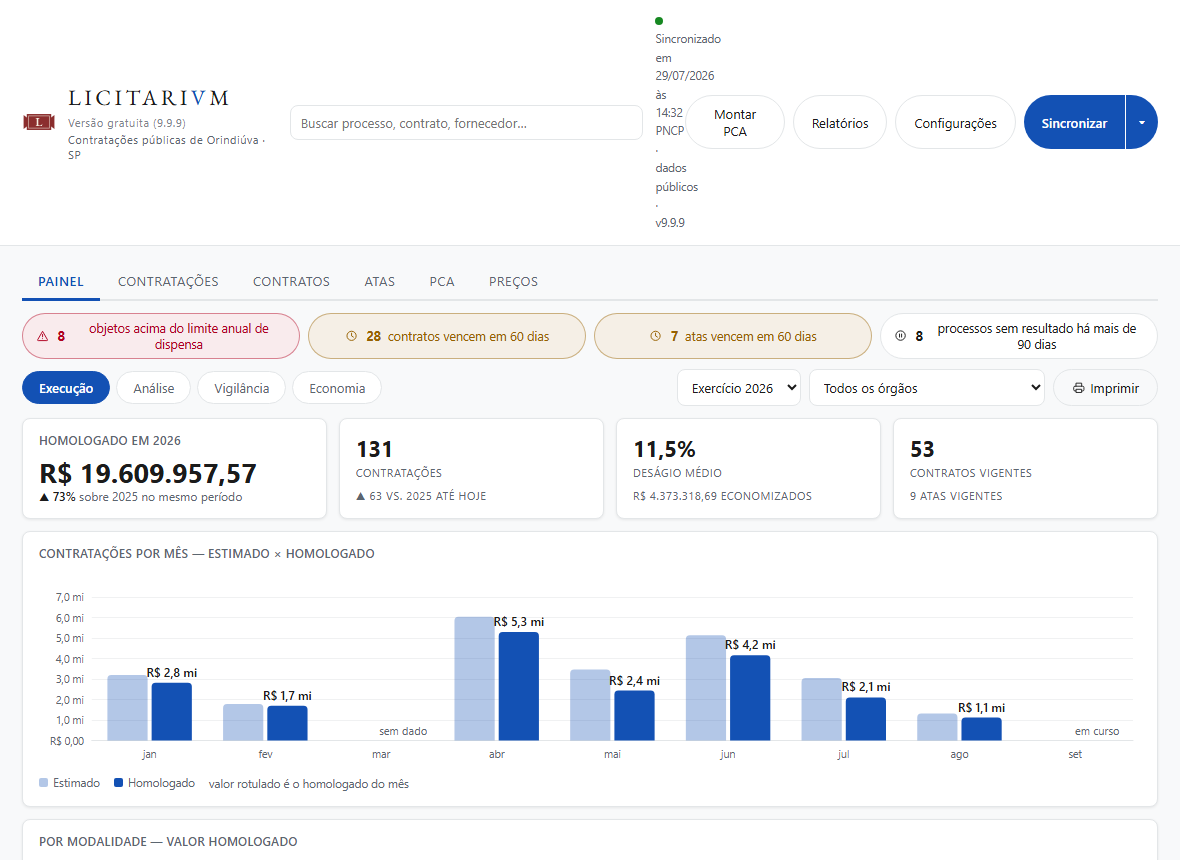
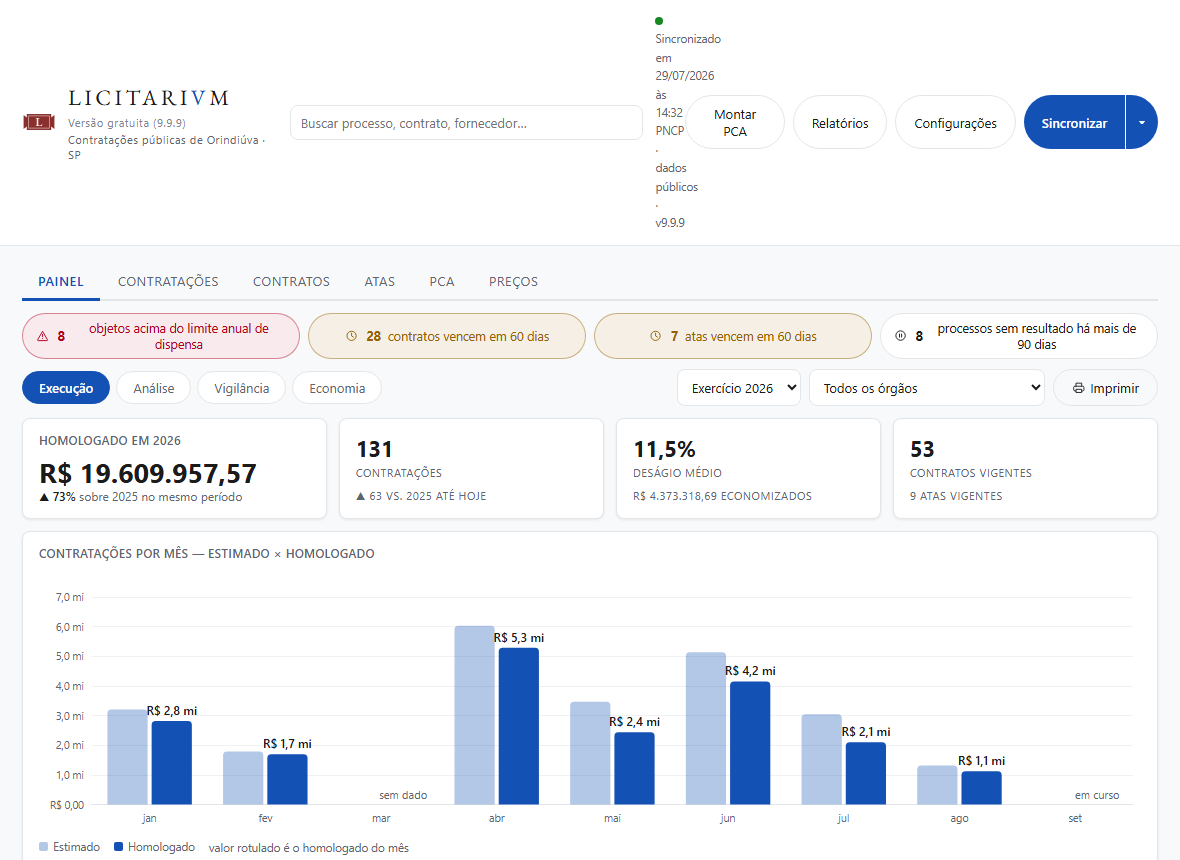
Situação do banco vira 1 coluna; altura dos gráficos recalibrada (v2.12.3)
Pedido do usuário: "Situação do banco" (aba Preços) ainda usava grid de
2 colunas (.grade-painel) enquanto o resto do app já era 1 coluna.
Convertido pra empilhado, mesmo padrão do Painel.

Junto: altura padrão dos gráficos de largura total (linha/curva/barra)
recalibrada de 196-230px pra 260px — média das alturas antigas
arredondada pra cima. Duas delas (mês×modalidade em Execução,
concentração de fornecedores em Análise) só viraram largura total na
correção da v2.12.2 e nunca tinham sido recalibradas pro novo contexto
(card 2x mais largo com a mesma altura fica achatado). Os 3 gráficos
novos da Situação do banco já entram com 260px.

304 pytest + 184 Playwright verdes.

diff --git a/MANUAL.html b/MANUAL.html
@@ -2,11 +2,11 @@
 <html lang="pt-BR">
 <head>
 <meta charset="utf-8">
-<title>Manual Operacional — Licitarium Free v2.12.2</title>
+<title>Manual Operacional — Licitarium Free v2.12.3</title>
 <style>
   @page {
     size: A4; margin: 2cm 1.8cm;
-    @top-center { content: "Licitarium Free v2.12.2 — Manual Operacional"; font-size: 9pt; color: #6f5b3e; }
+    @top-center { content: "Licitarium Free v2.12.3 — Manual Operacional"; font-size: 9pt; color: #6f5b3e; }
     @bottom-right { content: "Página " counter(page) " de " counter(pages);
                     font-size: 9pt; color: #6f5b3e; }
   }
@@ -155,7 +155,7 @@
     <path d="M21.22 61.67Q21.16 61.67 21.12 61.65Q21.09 61.64 21.09 61.61Q21.09 61.58 21.13 61.56Q21.17 61.54 21.23 61.53Q21.35 61.5 21.42 61.41Q21.5 61.32 21.52 61.17Q21.57 60.82 21.61 60.47Q21.64 60.11 21.67 59.79Q21.7 59.47 21.71 59.22Q21.71 59.19 21.71 59.14Q21.71 59.1 21.71 59.06Q21.7 59.01 21.69 58.97Q21.67 58.93 21.62 58.89Q21.55 58.83 21.47 58.81Q21.4 58.78 21.3 58.76Q21.26 58.75 21.23 58.73Q21.2 58.7 21.2 58.67Q21.2 58.63 21.24 58.62Q21.28 58.61 21.34 58.61Q21.4 58.61 21.49 58.61Q21.59 58.62 21.71 58.63Q21.82 58.63 21.93 58.64Q22.03 58.64 22.1 58.64Q22.14 58.64 22.16 58.66Q22.19 58.69 22.2 58.72Q22.22 58.81 22.25 58.89Q22.27 58.98 22.31 59.07L23.02 60.84Q23.03 60.87 23.06 60.88Q23.09 60.88 23.11 60.85L23.93 59.08Q23.96 58.98 23.98 58.88Q24 58.78 24.02 58.71Q24.03 58.65 24.07 58.65H24.25Q24.41 58.64 24.59 58.63Q24.76 58.61 24.85 58.61Q24.89 58.61 24.92 58.62Q24.96 58.63 24.96 58.66Q24.96 58.7 24.93 58.71Q24.9 58.73 24.84 58.76Q24.79 58.77 24.73 58.8Q24.67 58.82 24.62 58.84Q24.55 58.88 24.51 58.93Q24.46 58.98 24.47 59.07Q24.47 59.4 24.48 59.67Q24.5 59.94 24.51 60.19Q24.52 60.43 24.54 60.68Q24.56 60.93 24.57 61.2Q24.58 61.34 24.67 61.41Q24.75 61.49 24.92 61.52Q24.98 61.54 25.02 61.56Q25.05 61.57 25.05 61.61Q25.05 61.64 25.02 61.65Q24.99 61.67 24.93 61.67Q24.82 61.67 24.72 61.66Q24.62 61.65 24.53 61.65Q24.43 61.64 24.33 61.64Q24.24 61.64 24.16 61.65Q24.08 61.65 23.99 61.66Q23.9 61.67 23.78 61.67Q23.73 61.67 23.7 61.65Q23.66 61.64 23.66 61.61Q23.66 61.58 23.7 61.55Q23.73 61.53 23.8 61.52Q23.95 61.5 24 61.43Q24.06 61.36 24.06 61.2Q24.05 60.88 24.04 60.61Q24.04 60.34 24.02 60.07Q24.01 59.8 24 59.51Q23.99 59.46 23.97 59.47Q23.95 59.47 23.93 59.51L22.93 61.66Q22.92 61.7 22.88 61.7Q22.84 61.69 22.83 61.66Q22.63 61.12 22.41 60.59Q22.19 60.07 21.95 59.5Q21.94 59.47 21.91 59.47Q21.89 59.47 21.88 59.51Q21.85 59.8 21.83 60.07Q21.8 60.34 21.79 60.61Q21.78 60.88 21.78 61.17Q21.78 61.3 21.86 61.39Q21.94 61.49 22.09 61.52Q22.16 61.54 22.2 61.55Q22.24 61.57 22.24 61.61Q22.24 61.64 22.2 61.65Q22.16 61.67 22.11 61.67Q21.99 61.67 21.92 61.66Q21.86 61.65 21.81 61.65Q21.75 61.65 21.66 61.65Q21.57 61.65 21.51 61.65Q21.44 61.66 21.37 61.66Q21.3 61.67 21.22 61.67ZM25.84 61.67Q25.78 61.67 25.75 61.65Q25.72 61.64 25.72 61.61Q25.72 61.58 25.75 61.56Q25.79 61.54 25.86 61.53Q25.97 61.5 26.05 61.41Q26.13 61.32 26.15 61.17Q26.19 60.82 26.23 60.47Q26.27 60.11 26.3 59.79Q26.32 59.47 26.33 59.22Q26.34 59.19 26.34 59.14Q26.34 59.1 26.33 59.06Q26.33 59.01 26.31 58.97Q26.3 58.93 26.25 58.89Q26.17 58.83 26.1 58.81Q26.03 58.78 25.93 58.76Q25.88 58.75 25.85 58.73Q25.82 58.7 25.82 58.67Q25.82 58.63 25.86 58.62Q25.91 58.61 25.97 58.61Q26.02 58.61 26.12 58.61Q26.22 58.62 26.33 58.63Q26.45 58.63 26.56 58.64Q26.66 58.64 26.73 58.64Q26.76 58.64 26.79 58.66Q26.82 58.69 26.82 58.72Q26.85 58.81 26.88 58.89Q26.9 58.98 26.93 59.07L27.65 60.84Q27.66 60.87 27.69 60.88Q27.72 60.88 27.73 60.85L28.56 59.08Q28.58 58.98 28.61 58.88Q28.63 58.78 28.64 58.71Q28.66 58.65 28.7 58.65H28.88Q29.04 58.64 29.21 58.63Q29.39 58.61 29.48 58.61Q29.51 58.61 29.55 58.62Q29.59 58.63 29.59 58.66Q29.59 58.7 29.56 58.71Q29.53 58.73 29.47 58.76Q29.42 58.77 29.36 58.8Q29.3 58.82 29.25 58.84Q29.17 58.88 29.13 58.93Q29.09 58.98 29.09 59.07Q29.1 59.4 29.11 59.67Q29.12 59.94 29.14 60.19Q29.15 60.43 29.17 60.68Q29.18 60.93 29.2 61.2Q29.21 61.34 29.3 61.41Q29.38 61.49 29.54 61.52Q29.61 61.54 29.65 61.56Q29.68 61.57 29.68 61.61Q29.68 61.64 29.65 61.65Q29.61 61.67 29.56 61.67Q29.44 61.67 29.34 61.66Q29.25 61.65 29.15 61.65Q29.06 61.64 28.96 61.64Q28.87 61.64 28.79 61.65Q28.71 61.65 28.62 61.66Q28.53 61.67 28.41 61.67Q28.36 61.67 28.32 61.65Q28.29 61.64 28.29 61.61Q28.29 61.58 28.32 61.55Q28.36 61.53 28.43 61.52Q28.57 61.5 28.63 61.43Q28.68 61.36 28.68 61.2Q28.68 60.88 28.67 60.61Q28.66 60.34 28.65 60.07Q28.64 59.8 28.63 59.51Q28.62 59.46 28.6 59.47Q28.58 59.47 28.56 59.51L27.56 61.66Q27.55 61.7 27.51 61.7Q27.47 61.69 27.46 61.66Q27.26 61.12 27.04 60.59Q26.82 60.07 26.58 59.5Q26.57 59.47 26.54 59.47Q26.52 59.47 26.51 59.51Q26.48 59.8 26.45 60.07Q26.43 60.34 26.42 60.61Q26.41 60.88 26.41 61.17Q26.41 61.3 26.49 61.39Q26.57 61.49 26.72 61.52Q26.79 61.54 26.83 61.55Q26.87 61.57 26.87 61.61Q26.87 61.64 26.83 61.65Q26.79 61.67 26.74 61.67Q26.61 61.67 26.55 61.66Q26.48 61.65 26.43 61.65Q26.38 61.65 26.29 61.65Q26.2 61.65 26.13 61.65Q26.07 61.66 26 61.66Q25.93 61.67 25.84 61.67ZM30.37 61.67Q30.31 61.67 30.27 61.66Q30.23 61.65 30.23 61.61Q30.23 61.58 30.27 61.56Q30.31 61.54 30.37 61.51Q30.46 61.49 30.57 61.44Q30.67 61.38 30.79 61.29Q30.9 61.2 31 61.07L31.58 60.35Q31.63 60.28 31.64 60.21Q31.66 60.14 31.59 60.05L30.96 59.16Q30.86 59.03 30.79 58.95Q30.71 58.87 30.63 58.83Q30.56 58.8 30.48 58.77Q30.41 58.75 30.37 58.73Q30.34 58.71 30.34 58.67Q30.34 58.64 30.37 58.63Q30.41 58.62 30.46 58.62Q30.61 58.62 30.81 58.63Q31.01 58.64 31.2 58.64Q31.34 58.64 31.47 58.63Q31.61 58.62 31.7 58.62Q31.75 58.62 31.79 58.64Q31.83 58.65 31.83 58.68Q31.83 58.72 31.79 58.74Q31.75 58.76 31.69 58.78Q31.56 58.81 31.5 58.84Q31.44 58.87 31.44 58.93Q31.44 59 31.56 59.18L31.99 59.77Q32.04 59.84 32.07 59.84Q32.1 59.84 32.14 59.78L32.59 59.18Q32.65 59.1 32.68 59.04Q32.71 58.98 32.71 58.93Q32.71 58.88 32.66 58.84Q32.61 58.8 32.5 58.78Q32.46 58.77 32.4 58.74Q32.35 58.72 32.35 58.68Q32.35 58.65 32.39 58.64Q32.43 58.63 32.49 58.63Q32.56 58.63 32.62 58.63Q32.68 58.63 32.74 58.63Q32.81 58.64 32.88 58.64Q33.02 58.64 33.15 58.62Q33.28 58.61 33.39 58.61Q33.45 58.61 33.49 58.62Q33.53 58.63 33.53 58.67Q33.53 58.7 33.49 58.72Q33.45 58.74 33.38 58.76Q33.26 58.79 33.12 58.93Q32.97 59.06 32.85 59.21L32.28 59.9Q32.22 59.97 32.21 60.01Q32.2 60.04 32.23 60.1L32.97 61.16Q33.06 61.29 33.18 61.39Q33.29 61.48 33.41 61.51Q33.48 61.53 33.52 61.55Q33.57 61.58 33.57 61.61Q33.57 61.64 33.53 61.66Q33.49 61.67 33.44 61.67Q33.33 61.67 33.21 61.66Q33.08 61.66 32.94 61.65Q32.81 61.64 32.69 61.64Q32.55 61.64 32.42 61.65Q32.29 61.65 32.19 61.65Q32.13 61.65 32.09 61.64Q32.05 61.62 32.05 61.59Q32.05 61.56 32.1 61.53Q32.15 61.51 32.2 61.5Q32.28 61.48 32.35 61.43Q32.42 61.38 32.42 61.29Q32.42 61.26 32.41 61.23Q32.4 61.19 32.37 61.16L31.89 60.45Q31.84 60.39 31.81 60.38Q31.78 60.38 31.75 60.43L31.19 61.17Q31.16 61.22 31.14 61.26Q31.13 61.3 31.13 61.33Q31.14 61.39 31.19 61.44Q31.25 61.49 31.34 61.51Q31.41 61.52 31.45 61.54Q31.49 61.57 31.49 61.6Q31.49 61.63 31.45 61.64Q31.42 61.66 31.36 61.66Q31.27 61.66 31.15 61.65Q31.03 61.65 30.92 61.65Q30.77 61.65 30.63 61.66Q30.49 61.67 30.37 61.67ZM34.14 61.67Q34.08 61.67 34.04 61.66Q34 61.65 34 61.61Q34 61.58 34.04 61.56Q34.08 61.54 34.14 61.51Q34.23 61.49 34.34 61.44Q34.44 61.38 34.56 61.29Q34.67 61.2 34.77 61.07L35.35 60.35Q35.4 60.28 35.41 60.21Q35.43 60.14 35.36 60.05L34.73 59.16Q34.63 59.03 34.56 58.95Q34.48 58.87 34.4 58.83Q34.33 58.8 34.25 58.77Q34.18 58.75 34.14 58.73Q34.11 58.71 34.11 58.67Q34.11 58.64 34.14 58.63Q34.18 58.62 34.23 58.62Q34.38 58.62 34.58 58.63Q34.78 58.64 34.97 58.64Q35.11 58.64 35.24 58.63Q35.38 58.62 35.47 58.62Q35.52 58.62 35.56 58.64Q35.6 58.65 35.6 58.68Q35.6 58.72 35.56 58.74Q35.52 58.76 35.46 58.78Q35.33 58.81 35.27 58.84Q35.21 58.87 35.21 58.93Q35.21 59 35.33 59.18L35.76 59.77Q35.81 59.84 35.84 59.84Q35.87 59.84 35.91 59.78L36.36 59.18Q36.42 59.1 36.45 59.04Q36.48 58.98 36.48 58.93Q36.48 58.88 36.43 58.84Q36.38 58.8 36.27 58.78Q36.23 58.77 36.18 58.74Q36.12 58.72 36.12 58.68Q36.12 58.65 36.16 58.64Q36.2 58.63 36.26 58.63Q36.33 58.63 36.39 58.63Q36.45 58.63 36.51 58.63Q36.58 58.64 36.65 58.64Q36.79 58.64 36.92 58.62Q37.05 58.61 37.16 58.61Q37.22 58.61 37.26 58.62Q37.3 58.63 37.3 58.67Q37.3 58.7 37.26 58.72Q37.22 58.74 37.15 58.76Q37.03 58.79 36.89 58.93Q36.74 59.06 36.62 59.21L36.05 59.9Q35.99 59.97 35.98 60.01Q35.97 60.04 36 60.1L36.74 61.16Q36.83 61.29 36.95 61.39Q37.06 61.48 37.18 61.51Q37.25 61.53 37.29 61.55Q37.34 61.58 37.34 61.61Q37.34 61.64 37.3 61.66Q37.26 61.67 37.21 61.67Q37.1 61.67 36.98 61.66Q36.85 61.66 36.71 61.65Q36.58 61.64 36.46 61.64Q36.32 61.64 36.19 61.65Q36.06 61.65 35.96 61.65Q35.9 61.65 35.86 61.64Q35.82 61.62 35.82 61.59Q35.82 61.56 35.87 61.53Q35.92 61.51 35.97 61.5Q36.05 61.48 36.12 61.43Q36.2 61.38 36.2 61.29Q36.2 61.26 36.18 61.23Q36.17 61.19 36.14 61.16L35.66 60.45Q35.61 60.39 35.58 60.38Q35.55 60.38 35.52 60.43L34.96 61.17Q34.93 61.22 34.91 61.26Q34.9 61.3 34.9 61.33Q34.91 61.39 34.96 61.44Q35.02 61.49 35.11 61.51Q35.18 61.52 35.22 61.54Q35.26 61.57 35.26 61.6Q35.26 61.63 35.22 61.64Q35.19 61.66 35.13 61.66Q35.04 61.66 34.92 61.65Q34.8 61.65 34.69 61.65Q34.54 61.65 34.4 61.66Q34.26 61.67 34.14 61.67ZM39.32 61.71Q39.27 61.71 39.25 61.66Q39.23 61.61 39.19 61.51Q39.16 61.41 39.13 61.34L38.26 59.11Q38.21 58.99 38.14 58.9Q38.06 58.81 37.93 58.78Q37.87 58.76 37.83 58.74Q37.79 58.71 37.79 58.68Q37.79 58.65 37.83 58.63Q37.86 58.62 37.92 58.62Q38 58.62 38.1 58.63Q38.2 58.63 38.31 58.63Q38.42 58.64 38.52 58.64Q38.61 58.64 38.72 58.63Q38.82 58.63 38.92 58.63Q39.02 58.62 39.08 58.62Q39.13 58.62 39.17 58.64Q39.21 58.65 39.21 58.68Q39.21 58.72 39.17 58.74Q39.13 58.77 39.07 58.78Q38.93 58.79 38.85 58.84Q38.78 58.88 38.78 58.96Q38.78 59.02 38.79 59.07Q38.81 59.12 38.82 59.15L39.46 60.88Q39.47 60.9 39.48 60.91Q39.5 60.91 39.51 60.87L40.11 59.3Q40.2 59.05 40.13 58.93Q40.06 58.8 39.89 58.78Q39.83 58.77 39.79 58.74Q39.74 58.72 39.74 58.68Q39.74 58.65 39.78 58.64Q39.82 58.63 39.88 58.63Q39.95 58.63 40.02 58.63Q40.09 58.63 40.17 58.63Q40.24 58.64 40.33 58.64Q40.47 58.64 40.61 58.63Q40.75 58.62 40.85 58.62Q40.91 58.62 40.95 58.63Q40.99 58.64 40.99 58.68Q40.99 58.71 40.95 58.73Q40.91 58.75 40.84 58.77Q40.68 58.81 40.58 58.92Q40.47 59.04 40.41 59.19L39.59 61.15Q39.56 61.23 39.52 61.32Q39.49 61.41 39.45 61.5Q39.42 61.59 39.38 61.66Q39.38 61.69 39.36 61.7Q39.34 61.71 39.32 61.71ZM41.59 61.67Q41.54 61.67 41.51 61.65Q41.47 61.64 41.47 61.61Q41.47 61.55 41.61 61.52Q41.78 61.49 41.87 61.42Q41.95 61.35 41.95 61.19V59.1Q41.95 58.94 41.89 58.87Q41.82 58.81 41.64 58.77Q41.51 58.75 41.51 58.68Q41.51 58.65 41.54 58.63Q41.58 58.62 41.63 58.62Q41.75 58.62 41.84 58.63Q41.93 58.63 42.02 58.63Q42.11 58.64 42.21 58.64Q42.31 58.64 42.4 58.63Q42.48 58.63 42.57 58.63Q42.66 58.62 42.78 58.62Q42.83 58.62 42.86 58.63Q42.9 58.65 42.9 58.68Q42.9 58.71 42.86 58.74Q42.83 58.76 42.76 58.77Q42.59 58.81 42.51 58.88Q42.44 58.94 42.44 59.1V61.19Q42.44 61.35 42.53 61.42Q42.61 61.48 42.79 61.52Q42.86 61.54 42.89 61.56Q42.92 61.57 42.92 61.61Q42.92 61.64 42.89 61.65Q42.86 61.67 42.81 61.67Q42.69 61.67 42.59 61.66Q42.5 61.65 42.41 61.65Q42.32 61.64 42.21 61.64Q42.1 61.64 42.01 61.65Q41.91 61.65 41.81 61.66Q41.71 61.67 41.59 61.67Z" fill="var(--text)" opacity=".85"/>
   </svg>
   <h1 class="mark">LICITARI<b>V</b>M</h1>
-  <div class="subtitulo">MANUAL DO USUÁRIO · VERSÃO 2.12.2</div>
+  <div class="subtitulo">MANUAL DO USUÁRIO · VERSÃO 2.12.3</div>
 </header>
 
 <h2>1. O que é o Licitarium</h2>

diff --git a/ui/painel.js b/ui/painel.js
@@ -214,6 +214,14 @@ function _iniciarEchart(el) {
 }
 
 // ── colunas pareadas: estimado (claro) × homologado (cheio) ────────────────
+// 260px é a altura padrão de todo gráfico de largura total do app (linha,
+// área, curva) — média das 5 alturas que esses gráficos já usavam (196 a
+// 230px) arredondada pra cima. Motivo do arredondamento pra cima, não só a
+// média: 2 delas (aqui e grafConcentracao) ficaram largura total só depois
+// da correção de layout de 2026-09-12 — antes dividiam a linha com outro
+// gráfico, então a altura tinha sido calibrada pra card ~metade da largura.
+// Card 2x mais largo com a MESMA altura fica achatado; aumentar era a
+// correção certa, não só "manter o que já tinha".
 function grafMeses(el, meses, ano, larg = 660) {
   // Mês sem contratação é informação: filtrá-lo comprimia o eixo e escondia
   // o buraco — no acervo do piloto, março sumia entre fevereiro e abril.
@@ -226,7 +234,7 @@ function grafMeses(el, meses, ano, larg = 660) {
   const hoje = new Date();
   const mesCorrente = ano === hoje.getFullYear() ? hoje.getMonth() + 1 : 0;
   const dados = meses.slice(0, Math.max(ultimo + 1, mesCorrente));
-  el.innerHTML = `<div class="graf-echart" style="height:196px"></div>
+  el.innerHTML = `<div class="graf-echart" style="height:260px"></div>
     <div class="leg"><span><i style="background:var(--s1);opacity:.32"></i>Estimado</span>
     <span><i style="background:var(--s1)"></i>Homologado</span>
     <span class="nota" style="margin:0">valor rotulado é o homologado do mês</span></div>`;
@@ -356,7 +364,7 @@ function grafSeries(el, series, anoAtual) {
   }
   const ultimoMesAtual = Math.min(new Date().getMonth(), 11);
   el.innerHTML = `<div class="graf-par" style="position:relative">
-    <div class="graf-echart" style="height:220px"></div>
+    <div class="graf-echart" style="height:260px"></div>
     <svg data-overlay aria-hidden="true"
       style="position:absolute;inset:0"></svg></div>`;
   const alvoChart = el.querySelector(".graf-echart");
@@ -551,8 +559,11 @@ function grafConcentracao(el, curva, total) {
   // destacar o último ponto seria dizer "todos os fornecedores = 100%", que
   // não informa nada — e o rótulo cairia em cima do fim da curva
   const dez = Math.min(9, Math.max(0, curva.length - 2));
+  // 260px: mesma altura padrão de largura total, ver comentário em
+  // grafMeses — este também só virou largura total na correção de layout
+  // de 2026-09-12 (antes dividia linha com "Deságio por modalidade")
   el.innerHTML = `<div class="graf-par" style="position:relative">
-    <div class="graf-echart" style="height:190px"></div>
+    <div class="graf-echart" style="height:260px"></div>
     <svg data-overlay aria-hidden="true"
       style="position:absolute;inset:0"></svg></div>`;
   const alvoChart = el.querySelector(".graf-echart");
@@ -656,7 +667,7 @@ function grafCurvaABC(el, itens, larg = 660) {
   const nC = validos.length - nA - nB;
   const fimA = Math.max(0, nA - 1), fimB = Math.max(fimA, nA + nB - 1);
 
-  el.innerHTML = `<div class="graf-echart" style="height:230px"></div>
+  el.innerHTML = `<div class="graf-echart" style="height:260px"></div>
     <div class="leg" style="display:grid;grid-template-columns:${
       (((fimA + 1) / validos.length) * 100).toFixed(1)}% ${
       ((nB / validos.length) * 100).toFixed(1)}% 1fr;gap:0;margin-top:2px">
@@ -716,7 +727,7 @@ function grafValorPorAno(el, porAno, anoAtual) {
     el.innerHTML = `<div class="vazio">Sem contratos em anos anteriores.</div>`;
     return;
   }
-  el.innerHTML = `<div class="graf-echart" style="height:230px"></div>`;
+  el.innerHTML = `<div class="graf-echart" style="height:260px"></div>`;
   const alvo = el.querySelector(".graf-echart");
   const chart = _iniciarEchart(alvo);
   chart.setOption({

diff --git a/ui/index.html b/ui/index.html
@@ -135,11 +135,11 @@
         <div class="grade-painel">
           <div class="card" style="padding:16px">
             <h3 class="tit-painel">Itens por ano</h3>
-            <div id="painel-grafico-ano" style="height:220px"></div>
+            <div id="painel-grafico-ano" style="height:260px"></div>
           </div>
           <div class="card" style="padding:16px">
             <h3 class="tit-painel">Material × serviço</h3>
-            <div id="painel-grafico-tipo" style="height:220px"></div>
+            <div id="painel-grafico-tipo" style="height:260px"></div>
           </div>
         </div>
         <div class="topo-painel" style="margin-bottom:8px">
@@ -149,7 +149,7 @@
         <div id="painel-concentracao-aviso" class="aviso-concentracao"></div>
         <div class="grade-painel">
           <div class="card" style="padding:16px">
-            <div id="painel-concentracao-svg" style="height:220px"></div>
+            <div id="painel-concentracao-svg" style="height:260px"></div>
             <div class="legenda-eixo-concentracao">fornecedores, do maior para o menor</div>
           </div>
           <div class="card" style="padding:16px" id="painel-concentracao-lista-card">

diff --git a/tests-e2e/precos-situacao.spec.js b/tests-e2e/precos-situacao.spec.js
@@ -34,6 +34,21 @@ test("concentração de fornecedores desenha curva e lista pro item selecionado"
   await expect(page.locator(".barra-concentracao")).toHaveCount(2);
 });
 
+test("cartões dos gráficos ficam empilhados em 1 coluna, não lado a lado",
+    async ({ page }) => {
+  // achado do usuário (2026-09-12): esta tela ainda usava o grid de 2
+  // colunas antigo (.grade-painel) enquanto o resto do app (Painel) já
+  // tinha virado 1 coluna — mesmo espírito da correção de Execução/
+  // Análise, mesmo dia.
+  await page.locator('button[data-vista-precos="situacao"]').click();
+  const anoBox = await page.locator("#painel-grafico-ano").boundingBox();
+  const tipoBox = await page.locator("#painel-grafico-tipo").boundingBox();
+  // em 1 coluna, o 2º cartão fica ABAIXO do 1º (mesmo x, y maior), não
+  // ao lado (mesmo y, x maior)
+  expect(tipoBox.y).toBeGreaterThan(anoBox.y + anoBox.height - 5);
+  expect(anoBox.width).toBeGreaterThan(600);   // largura cheia, não metade
+});
+
 test("voltar pra Pesquisar mantém a busca de preços intacta",
     async ({ page }) => {
   await page.locator('button[data-vista-precos="situacao"]').click();

diff --git a/ui/estilo.css b/ui/estilo.css
@@ -693,7 +693,9 @@ details.raw pre { background:var(--surface2); border-radius:var(--radius);
 #pca-kpis .kpi { cursor:default; }
 #pca-kpis .kpi:hover { border-color:var(--border); }
 .topo-painel { display:flex; justify-content:space-between; align-items:center; }
-.grade-painel { display:grid; grid-template-columns:1fr 1fr; gap:16px; }
+/* 1 coluna, largura total — mesmo padrão do Painel (handoff Claude
+   Design): cada gráfico/cartão empilhado, nunca 2 lado a lado */
+.grade-painel { display:flex; flex-direction:column; gap:16px; }
 .tit-painel { font-size:12.5px; color:var(--muted); font-weight:600;
               letter-spacing:.04em; text-transform:uppercase;
               margin-bottom:10px; }

diff --git a/licitarium.py b/licitarium.py
@@ -28,7 +28,7 @@ import pca_builder
 import pncp
 import relatorios
 
-VERSAO = "2.12.2"
+VERSAO = "2.12.3"
 # dentro do exe onefile os arquivos ficam na pasta temporária do bundle;
 # _MEIPASS é o caminho oficial para chegar até eles
 DIR_APP = Path(getattr(sys, "_MEIPASS", Path(__file__).resolve().parent))

diff --git a/CHANGELOG.md b/CHANGELOG.md
@@ -1,5 +1,25 @@
 # Changelog
 
+## 2.12.3 — 2026-09-12
+
+**Correção — Situação do banco (Preços) vira 1 coluna; altura dos gráficos de largura total recalibrada**
+
+- **Situação do banco** (aba Preços) ainda usava `.grade-painel` (grid de
+  2 colunas) — pedido do usuário: 1 coluna, mesmo padrão do resto do
+  app. Os 4 pares (Itens por ano/Material×serviço, Concentração/lista,
+  Municípios/Itens frequentes, Fornecedores/Unidades) empilham agora.
+- **Altura dos gráficos de largura total recalibrada para 260px** — os
+  5 gráficos de linha/curva/barra que já eram (ou acabaram de virar)
+  largura total usavam alturas entre 196 e 230px, herdadas de quando
+  vários deles dividiam a linha com outro gráfico (2 colunas). Card 2×
+  mais largo com a mesma altura fica achatado. 260px é a média das 5
+  alturas antigas arredondada pra cima — mês×modalidade (Execução) e
+  concentração de fornecedores (Análise) viraram largura total só na
+  correção da v2.12.2, então a altura antiga nunca tinha sido calibrada
+  pra esse contexto. Os 3 novos gráficos da Situação do banco entram
+  direto com 260px.
+- 304 pytest + 184 Playwright verdes.
+
 ## 2.12.2 — 2026-09-12
 
 **Correção — Painel · Execução e Análise voltam a ser 1 coluna, de verdade**
